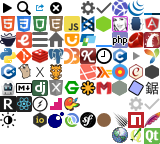
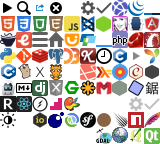
Finish GDAL scraper

Changed region(s): [[0.5938, 0.8889, 0.7188, 1.0]]

diff --git a/assets/stylesheets/global/_icons.scss b/assets/stylesheets/global/_icons.scss
@@ -102,6 +102,7 @@
 ._icon-npm:before           { background-position: -8rem -7rem; }
 ._icon-apache_http_server:before { background-position: -9rem -7rem; }
 
+._icon-gdal:before          { background-position: -6rem -8rem; }
 ._icon-postgis:before       { background-position: -7rem -8rem; }
 ._icon-qgispyapi:before     { background-position: -8rem -8rem; }
 ._icon-pyqt:before          { background-position: -9rem -8rem; }

diff --git a/assets/stylesheets/pages/_gdal.scss b/assets/stylesheets/pages/_gdal.scss
@@ -1,5 +1,10 @@
 ._gdal {
 
+  h2 {
+    margin-left: -1rem;
+    @extend %block-heading;
+  }
+
   .member {
     margin-left: -1rem;
     @extend %note, %note-blue;
@@ -7,5 +12,11 @@
 
   .fragment {
     font-family: $monoFont;
+  }
+
+  div.epydoc { @extend %note, %note-blue; }
+
+  table.details {
+    border-style: none;
   }
 }

diff --git a/lib/docs/filters/gdal/clean_html.rb b/lib/docs/filters/gdal/clean_html.rb
@@ -6,10 +6,26 @@ module Docs
         css('div#top').remove
         css('div.summary').remove
         css('span.mlabels').remove
+
+        # epydoc header+footer
+        css('table.navbar').each do |node|
+          node.next.next.remove
+          node.remove
+        end
+        css('script', 'style', 'link').remove
+        # epydoc source links
+        css('span.codelink').remove
+        # epydoc UML diagrams
+        css('center > center > map').remove
+
         # Doxygen footer
         css('hr').each do |node|
           if nnode = node.next
-            if nnode.content =~ /^ Generated for GDAL/
+            if nnode.content =~ /^The documentation for this/
+                nnode.next.next.remove
+                nnode.next.remove
+                nnode.remove
+            elsif nnode.content =~ /^ Generated for GDAL/
                 nnode.next.next.remove
                 nnode.next.remove
                 nnode.remove
@@ -18,11 +34,91 @@ module Docs
           node.remove
         end
 
+        # Remove src link + inheritance diag.
+        css('div.dynheader').remove
+        css('div.dyncontent').remove
+        css('a[@href="#details"]').each do |node|
+          node.parent.next.next.remove # "Go to the source code of this file."
+        end
+
         # Doxygen titles
         css('div.title').each do |node|
           node.name = 'h1'
           node.content = node.content.sub(/ File Reference$/, '')
           node.content = node.content.sub(/ Class Reference$/, '')
+        end
+
+        # Extract h2 from doxygen table
+        css('table.memberdecls').each do |node|
+          if h2 = node.at_css('h2')
+            node.add_previous_sibling(h2)
+            node.at_css('tr').remove
+          end
+        end
+
+        # Extract title from epydoc tables
+        css('table.summary,table.details').each do |node|
+          if titlenode = node.at_css('span.table-header')
+            titlenode.name = 'h2'
+            node.add_previous_sibling(titlenode)
+            node.at_css('tr.table-header').remove
+          end
+          node['border'] = '0'
+        end
+
+        # Extract embedded table in epydoc summary
+        css('td.summary').each do |node|
+          if (table = node.children[1]) && (table.name == 'table')
+            if td = table.at_css('td')
+              td.name = 'div'
+              table.add_previous_sibling(td)
+              table.remove
+            end
+          end
+        end
+
+        # Extract embedded table in epydoc details
+        css('table.details table').each do |node|
+          if h3 = node.at_css('h3.epydoc')
+            h3.name = 'div'
+            if id = node.at_css('span.sig-name')
+              h3['id'] = id.text
+            end
+            node.add_previous_sibling(h3)
+            node.remove
+          end
+        end
+        css('table.details').each do |node|
+          if h3 = node.at_css('h3.epydoc')
+            h3.name = 'div'
+            h3['id'] = h3.text
+            node.add_previous_sibling(h3)
+            if table = node.at_css('table')
+              if td = table.at_css('td')
+                td.name = 'div'
+                table.add_previous_sibling(td)
+                table.remove
+              end
+            end
+         end
+        end
+
+        # Remove separator rows
+        css('td.memSeparator').each do |node|
+          node.parent.remove
+        end
+
+
+        # Move anchors
+        css("a[@name='details']").each do |node|
+          if nnode = node.next
+            nnode['id'] = 'details'
+          end
+        end
+        css('.anchor').each do |node|
+          if node.next && nnode = node.next.next
+            nnode['id'] = node['id']
+          end
         end
 
         # Replace member table with div
@@ -35,6 +131,8 @@ module Docs
             memname.gsub!(/#define (\w+).*/, '\1')
           elsif memname =~ /^\w+::\w+/
             memname.gsub!(/(^\w+::\w+).+/, '\1')
+          elsif memname =~ /\w+::\w+$/
+            memname.gsub!(/.+ (\w+::\w+)$/, '\1')
           else
             memname.gsub!(/.+? ([A-Zw].+?) .*/, '\1')
           end

diff --git a/lib/docs/filters/gdal/entries.rb b/lib/docs/filters/gdal/entries.rb
@@ -3,7 +3,12 @@ module Docs
     class EntriesFilter < Docs::EntriesFilter
       def get_name
         if node = at_css('h1')
-          node.content
+          if slug =~ /^python/
+            # Remove "Class" or "Module"
+            node.content.sub(/^\w+/, '')
+          else
+            node.content
+          end
         else
           slug
         end
@@ -11,16 +16,32 @@ module Docs
 
       def get_type
         case slug
-        when /^drv_/
-          'OGR Format'
-        when /^frmt_/
-          'GDAL Format'
-        when /^ogr__/
+        when /^frmt_/, 'formats_list'
+          'GDAL Formats'
+        when /^drv_/, 'ogr_formats'
+          'OGR Formats'
+        when /^gdal.*8h$/, /^cpl__.*8h$/
+          'GDAL C API'
+        when /^ogr__/, /^ogrsf__/
           'OGR C API'
-        when /^classOGR/
+        when /^classGDAL/, /^structGDAL/, /^classGNM/, /^classCPL/, /^structCPL/, /^classVSI/
+          'GDAL C++ API_' # Without trailing character, the webapp displays 'OGR C API' entries in the tree
+        when /^classOGR/, /^classIOGR/
           'OGR C++ API_'
-        when /^classGDAL/
-          'GDAL C++ API'
+        when /gdal_.*tut$/, /tutorial$/, 'warptut', 'gdal_datamodel', 'ogr_arch', 'ogr_apitut', 'ogr_drivertut', 'gnm_arch', 'gnm_tut'
+          'Tutorials'
+        when /^gdal/, 'pct2rgb', 'rgb2pct', 'nearblack'
+          'GDAL Tools'
+        when /^ogr/
+          'OGR Tools'
+        when /^gnm/
+          'GNM Tools'
+        when /^python\/osgeo\.ogr/
+          'OGR Python API'
+        when /^python/
+          'GDAL Python API'
+        else
+          slug
         end
       end
 
@@ -30,6 +51,12 @@ module Docs
         css('div.member').each do |node|
           method = node['id']
           entries << [method, method]
+        end
+        css('div.epydoc').each do |node|
+          if method = node['id']
+            classname = at_css('h1').text.sub(/^\w+/, '')
+            entries << ["#{classname}.#{method}", method]
+          end
         end
         entries
       end

diff --git a/lib/docs/scrapers/gdal.rb b/lib/docs/scrapers/gdal.rb
@@ -5,12 +5,20 @@ module Docs
     self.type = 'gdal'
     self.version = '2.2.0'
     self.dir = '/home/builder/geoapis/docs/gdal'
+    #self.base_url = 'http://www.gdal.org'
     self.root_path = 'index.html'
+    self.initial_paths = ['python/osgeo-module.html']
 
     html_filters.push 'gdal/clean_html', 'gdal/entries'
 
-    options[:only_patterns] = [/^drv_/, /^frmt_/, /^ogr__/, /^class/]
-    options[:skip_patterns] = [/_source.html$/, /-members.html$/]
+    options[:skip_patterns] = [/_source.html$/, /-members.html$/, /^dir_/, /\.xml$/,
+      /.cpp.html$/, /^globals/, /^geopackage_aspatial.html$/,
+      /^frmt_mrsid_lidar_view_point_cloud.html$/,
+      /^pages.html$/, /^annotated.html$/, /^files.html$/, /^index_ru.html$/, /^index_br.html$/,
+      /^credits.html$/, /^download.html$/, /^functions.html$/, /^hierarchy.html$/,
+      /^deprecated.html$/, /^gdal_building.html$/, /^usergroup0.html$/, /^unionOGRField.html$/,
+      /^python\/identifier-index.html$/, /^python\/module-tree.html$/, /^python\/help.html$/,
+      /^python\/frames.html$/, /^python\/.+-pysrc.html$/, /^python\/.+_object-class.html$/]
 
     options[:attribution] = <<-HTML
       In general GDAL/OGR is licensed under an MIT/X style license. 
